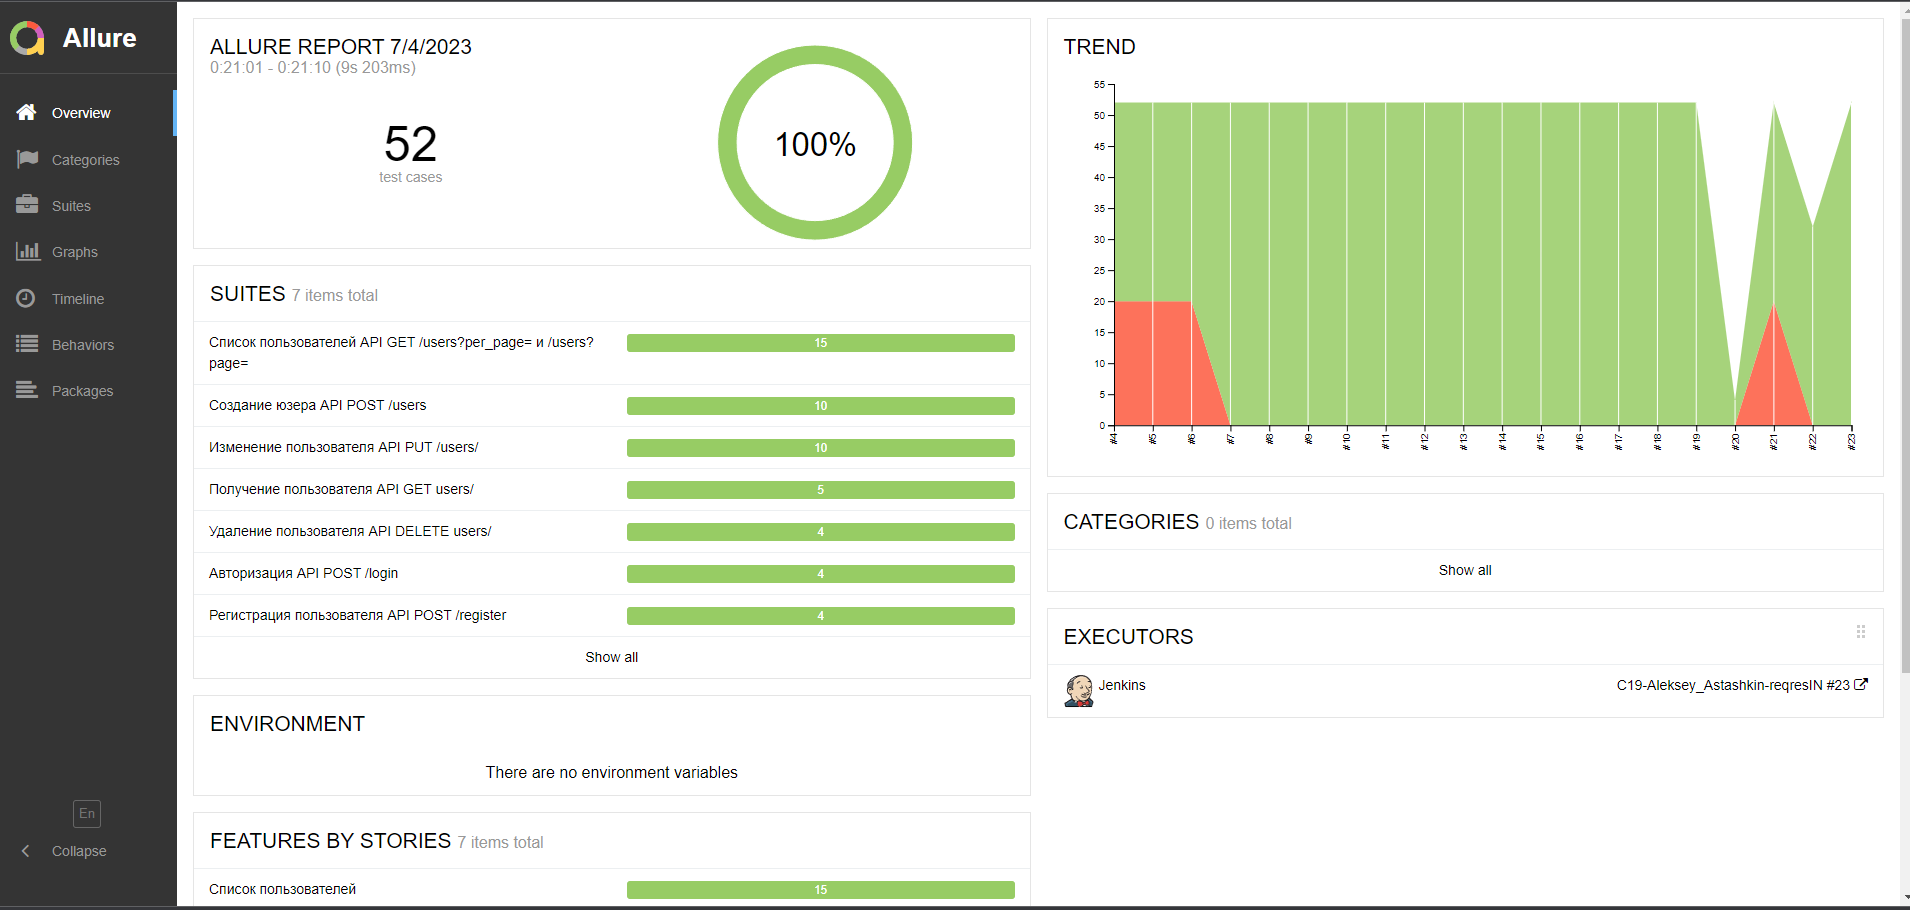
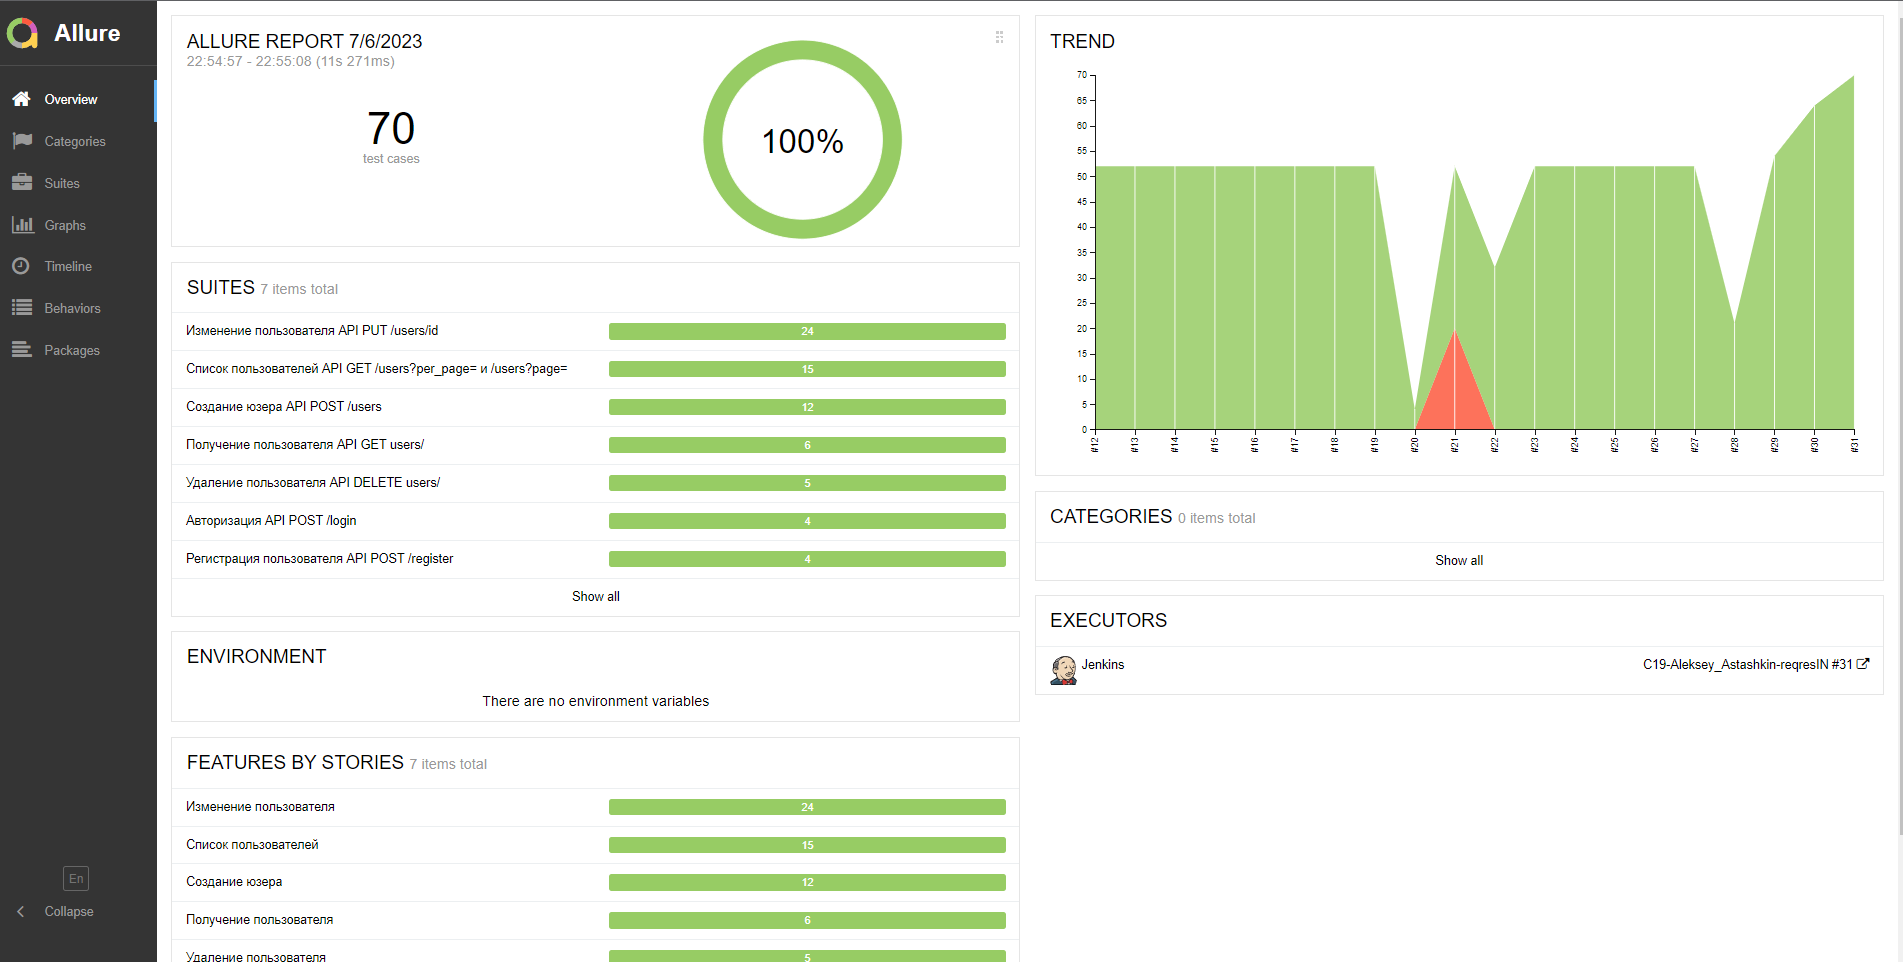
add annotations

Changed region(s): [[0.0, 0.0, 1.0, 1.0], [0.5581, 0.7385, 0.5891, 0.8], [0.7441, 0.6154, 0.7751, 0.6462]]

diff --git a/src/test/java/api/tests/GetUsersTests.java b/src/test/java/api/tests/GetUsersTests.java
@@ -2,8 +2,7 @@ package api.tests;
 
 import api.data.UsersDataValues;
 import com.github.javafaker.Faker;
-import io.qameta.allure.Description;
-import io.qameta.allure.Story;
+import io.qameta.allure.*;
 import lombok.val;
 import org.junit.jupiter.api.DisplayName;
 import org.junit.jupiter.api.Tag;
@@ -23,6 +22,7 @@ import static api.utils.RandomUtils.getRandomUserForId;
 
 @Story("Список пользователей")
 @DisplayName("Список пользователей API GET /users?per_page= и /users?page=")
+@Owner("Aleksey_Astashkin")
 public class GetUsersTests extends TestBase {
 
     Map<String, Integer> queryParam = new HashMap<>();
@@ -30,6 +30,7 @@ public class GetUsersTests extends TestBase {
 
     @DisplayName("Список пользователей")
     @Description("Позитивный сценарий")
+    @Severity(SeverityLevel.MINOR)
     @ParameterizedTest(name = " /users?per_page")
     @EnumSource(value = UsersDataValues.class)
     public void testsGetUsersPerPage(UsersDataValues usersDataValues) {
@@ -40,6 +41,7 @@ public class GetUsersTests extends TestBase {
 
     @DisplayName("Список пользователей")
     @Description("Позитивный сценарий")
+    @Severity(SeverityLevel.MINOR)
     @ParameterizedTest(name = " /users?page={0}")
     @MethodSource("checkOutputParamsForPage")
     public void testsGetUsersPage(int page, int count) {
@@ -55,6 +57,7 @@ public class GetUsersTests extends TestBase {
     }
 
     @Test
+    @Severity(SeverityLevel.CRITICAL)
     @DisplayName("Проверка рандомного пользователя из списка")
     @Description("Проверка рандомного пользователя")
     @Tag("sanity")

diff --git a/src/test/java/api/tests/PatchUpdateUsersTests.java b/src/test/java/api/tests/PatchUpdateUsersTests.java
@@ -2,8 +2,7 @@ package api.tests;
 
 import api.models.CreateUsersBodyModel;
 import com.github.javafaker.Faker;
-import io.qameta.allure.Description;
-import io.qameta.allure.Story;
+import io.qameta.allure.*;
 import lombok.val;
 import org.junit.jupiter.api.DisplayName;
 import org.junit.jupiter.api.Tag;
@@ -20,12 +19,14 @@ import static api.service.RequestUpdateUser.patchUpdateUser;
 
 @Story("Изменение пользователя")
 @DisplayName("Изменение пользователя API PUT /users/id")
+@Owner("Aleksey_Astashkin")
 public class PatchUpdateUsersTests extends TestBase {
 
     CreateUsersBodyModel body = new CreateUsersBodyModel();
     static Faker faker = new Faker();
 
     @Test
+    @Severity(SeverityLevel.CRITICAL)
     @Tag("sanity")
     @DisplayName("Изменение пользователя")
     @Description("ПозитивнВ сценарий")
@@ -38,6 +39,7 @@ public class PatchUpdateUsersTests extends TestBase {
 
     @DisplayName("Негативный сценарий изменения пользователя ")
     @Description("Негативный сценарии")
+    @Severity(SeverityLevel.NORMAL)
     @ParameterizedTest(name = "[Name = {0}, Job = {1}]")
     @MethodSource("checkOutputParamsForPage")
     public void negativeUpdateUserTests(String valueName, String valueJob) {

diff --git a/src/test/java/api/tests/RegisterUserTests.java b/src/test/java/api/tests/RegisterUserTests.java
@@ -2,8 +2,7 @@ package api.tests;
 
 import api.models.RegisterBodyModel;
 import com.github.javafaker.Faker;
-import io.qameta.allure.Description;
-import io.qameta.allure.Story;
+import io.qameta.allure.*;
 import lombok.val;
 import org.junit.jupiter.api.DisplayName;
 import org.junit.jupiter.api.Tag;
@@ -22,12 +21,14 @@ import static api.utils.RandomUtils.getRandomUserForId;
 
 @Story("Регистрация пользователя")
 @DisplayName("Регистрация пользователя API POST /register")
+@Owner("Aleksey_Astashkin")
 public class RegisterUserTests extends TestBase {
 
     RegisterBodyModel body = new RegisterBodyModel();
     Faker faker = new Faker();
 
     @Test
+    @Severity(SeverityLevel.CRITICAL)
     @Tag("sanity")
     @DisplayName("Регистрация пользователя")
     @Description("Позитивный сценарий")
@@ -40,6 +41,7 @@ public class RegisterUserTests extends TestBase {
 
     @DisplayName("Регистрация пользователя с параметрами : ")
     @Description("Негативный сценарий")
+    @Severity(SeverityLevel.NORMAL)
     @ParameterizedTest(name = "[user: {0}; pass:{1}]")
     @MethodSource("submitIncorrectParameters")
     public void negativeRegisterTest(String user, String pass, String responseErrorText) {

diff --git a/src/test/java/api/tests/PutUpdateUsersTests.java b/src/test/java/api/tests/PutUpdateUsersTests.java
@@ -2,8 +2,7 @@ package api.tests;
 
 import api.models.*;
 import com.github.javafaker.Faker;
-import io.qameta.allure.Description;
-import io.qameta.allure.Story;
+import io.qameta.allure.*;
 import lombok.val;
 import org.junit.jupiter.api.DisplayName;
 import org.junit.jupiter.api.Tag;
@@ -20,12 +19,14 @@ import static api.service.RequestUpdateUser.putUpdateUser;
 
 @Story("Изменение пользователя")
 @DisplayName("Изменение пользователя API PUT /users/id")
+@Owner("Aleksey_Astashkin")
 public class PutUpdateUsersTests extends TestBase {
 
     CreateUsersBodyModel body = new CreateUsersBodyModel();
     static Faker faker = new Faker();
 
     @Test
+    @Severity(SeverityLevel.CRITICAL)
     @Tag("sanity")
     @DisplayName("Изменение пользователя")
     @Description("ПозитивнВ сценарий")
@@ -38,6 +39,7 @@ public class PutUpdateUsersTests extends TestBase {
 
     @DisplayName("Негативный сценарий изменения пользователя ")
     @Description("Негативный сценарии")
+    @Severity(SeverityLevel.NORMAL)
     @ParameterizedTest(name = "[Name = {0}, Job = {1}]")
     @MethodSource("checkOutputParamsForPage")
     public void negativeUpdateUserTests(String valueName, String valueJob) {

diff --git a/src/test/java/api/tests/LoginTests.java b/src/test/java/api/tests/LoginTests.java
@@ -2,8 +2,7 @@ package api.tests;
 
 import api.models.LoginBodyModel;
 import com.github.javafaker.Faker;
-import io.qameta.allure.Description;
-import io.qameta.allure.Story;
+import io.qameta.allure.*;
 import lombok.val;
 import org.junit.jupiter.api.DisplayName;
 import org.junit.jupiter.api.Tag;
@@ -21,11 +20,13 @@ import static api.constans.ErrorsTexts.*;
 
 @Story("Авторизация")
 @DisplayName("Авторизация API POST /login")
+@Owner("Aleksey_Astashkin")
 public class LoginTests extends TestBase {
 
     LoginBodyModel body = new LoginBodyModel();
 
     @Test
+    @Severity(SeverityLevel.CRITICAL)
     @Tag("sanity")
     @DisplayName("Проверка авторизации пользователя")
     @Description("Авторизация")
@@ -37,6 +38,7 @@ public class LoginTests extends TestBase {
 
     @DisplayName("Негативный сценарий авторизации ")
     @Description("Проверка негативных сценариев с 400")
+    @Severity(SeverityLevel.NORMAL)
     @ParameterizedTest(name = "[user: {0}; pass:{1}]")
     @MethodSource("submitIncorrectParameters")
     public void negativeLoginTest(String user, String pass, String responseErrorText) {

diff --git a/src/test/java/api/tests/CreateUserTests.java b/src/test/java/api/tests/CreateUserTests.java
@@ -2,8 +2,7 @@ package api.tests;
 
 import api.models.CreateUsersBodyModel;
 import com.github.javafaker.Faker;
-import io.qameta.allure.Description;
-import io.qameta.allure.Story;
+import io.qameta.allure.*;
 import lombok.val;
 import org.junit.jupiter.api.DisplayName;
 import org.junit.jupiter.api.Tag;
@@ -20,12 +19,14 @@ import static api.service.RequestCreateUser.sendCreateUser;
 
 @Story("Создание юзера")
 @DisplayName("Создание юзера API POST /users")
+@Owner("Aleksey_Astashkin")
 public class CreateUserTests extends TestBase {
 
     CreateUsersBodyModel body = new CreateUsersBodyModel();
     static Faker faker = new Faker();
 
     @Test
+    @Severity(SeverityLevel.CRITICAL)
     @DisplayName("Проверка создания пользователя")
     @Description("Позитивный сценарий")
     @Tag("sanity")
@@ -36,6 +37,7 @@ public class CreateUserTests extends TestBase {
 
     }
 
+    @Severity(SeverityLevel.NORMAL)
     @DisplayName("Негативный сценарий создания пользователя")
     @Description("Негативный сценарий")
     @ParameterizedTest(name = "[user: {0}; pass:{1}]")

diff --git a/src/test/java/api/tests/GetUserTests.java b/src/test/java/api/tests/GetUserTests.java
@@ -1,7 +1,6 @@
 package api.tests;
 
-import io.qameta.allure.Description;
-import io.qameta.allure.Story;
+import io.qameta.allure.*;
 import lombok.val;
 import org.junit.jupiter.api.DisplayName;
 import org.junit.jupiter.api.Tag;
@@ -18,9 +17,11 @@ import static org.junit.jupiter.api.Assertions.assertEquals;
 
 @Story("Получение пользователя")
 @DisplayName("Получение пользователя API GET users/")
+@Owner("Aleksey_Astashkin")
 public class GetUserTests extends TestBase {
 
     @Test
+    @Severity(SeverityLevel.CRITICAL)
     @Tag("sanity")
     @DisplayName("Получить рандомного пользователя по id")
     @Description("Позитивный сценарий")
@@ -33,6 +34,7 @@ public class GetUserTests extends TestBase {
 
     @DisplayName("Запрос с queryParam")
     @Description("Негативный сценарий")
+    @Severity(SeverityLevel.NORMAL)
     @ParameterizedTest(name = "[{0}]")
     @ValueSource(strings = {"100", "0", "-1", "-2147483648", "2147483647"})
     public void negativeTestGetUser(int value) {

diff --git a/src/test/java/api/tests/DeleteUserTests.java b/src/test/java/api/tests/DeleteUserTests.java
@@ -1,7 +1,6 @@
 package api.tests;
 
-import io.qameta.allure.Description;
-import io.qameta.allure.Story;
+import io.qameta.allure.*;
 import lombok.val;
 import org.junit.jupiter.api.DisplayName;
 import org.junit.jupiter.api.Tag;
@@ -14,9 +13,11 @@ import static org.junit.jupiter.api.Assertions.assertEquals;
 
 @Story("Удаление пользователя")
 @DisplayName("Удаление пользователя API DELETE users/")
+@Owner("Aleksey_Astashkin")
 public class DeleteUserTests extends TestBase {
 
     @Tag("sanity")
+    @Severity(SeverityLevel.CRITICAL)
     @DisplayName("Удаление пользователя с id")
     @Description("Позитивный сценарий")
     @ParameterizedTest(name = " = [{0}]")

diff --git a/README.md b/README.md
@@ -133,5 +133,5 @@ gradle clean test
 После завершения сборки, бот, созданный в <code>Telegram</code>, автоматически обрабатывает и отправляет сообщение с
 результатом.
 <p align="center">
-<img title="Allure TestOps DashBoard" src="media/screens/Telegram.png">
+<img title="Telegram" src="media/screens/Telegram.png">
 </p>
